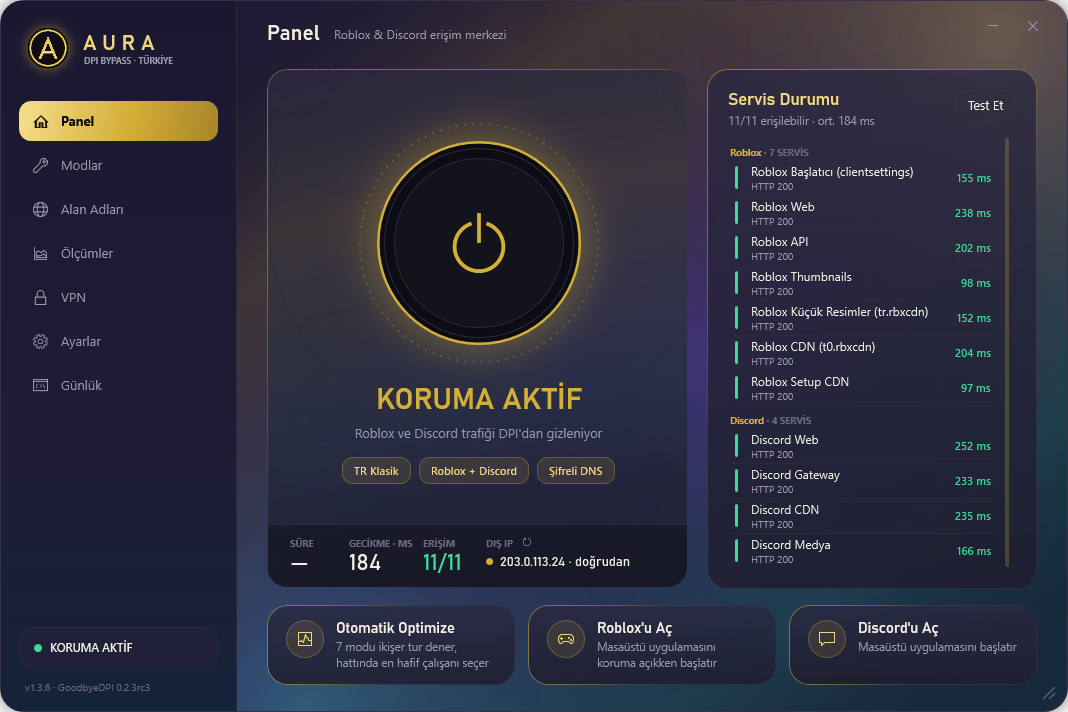
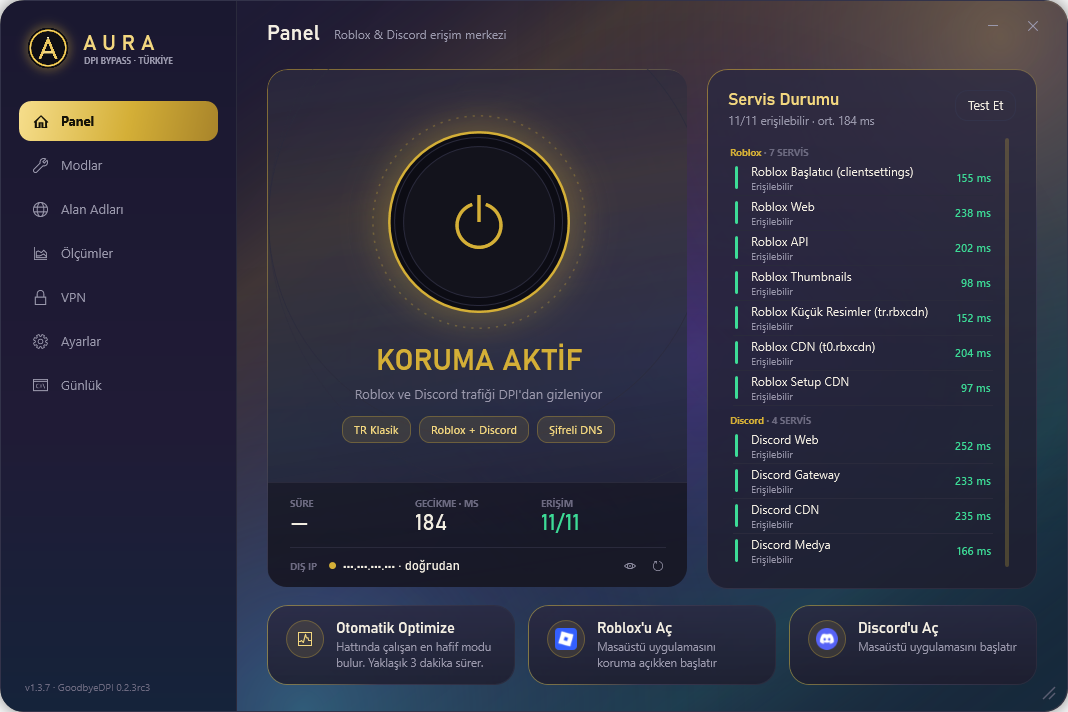
Site: 1.3.7 goruntuleri, betik ayri dosyada, icerik guvenlik politikasi

diff --git a/docs/index.html b/docs/index.html
@@ -3,6 +3,8 @@
 <head>
 <meta charset="utf-8">
 <meta name="viewport" content="width=device-width, initial-scale=1">
+<meta http-equiv="Content-Security-Policy" content="default-src 'none'; script-src 'self'; style-src 'unsafe-inline' https://fonts.googleapis.com; font-src https://fonts.gstatic.com; img-src 'self'; connect-src https://api.github.com; base-uri 'none'; form-action 'none'">
+<meta name="referrer" content="strict-origin-when-cross-origin">
 <title>Aura: Roblox ve Discord'a takılmadan gir</title>
 <meta name="description" content="Aura, Türkiye'deki erişim engelini aşan ücretsiz bir Windows uygulaması. Profil resimleri yüklenir, indirme hızı düşmez.">
 <link rel="canonical" href="https://nestyyyyyy.github.io/aura/">
@@ -252,6 +254,7 @@
           <div><dt>Windows neden uyarıyor?</dt><dd>Kurulum dosyasında dijital imza yok. İmza için her yıl ücret ödenen bir sertifika gerekir, Aura ise tek kişinin yaptığı ücretsiz bir uygulama. Windows SmartScreen imzasız ve az indirilen her dosyada “bilinmeyen yayıncı” uyarısı verir.</dd></div>
           <div><dt>Antivirüs neden uyarabilir?</dt><dd>Aura, ağ paketlerini değiştirebilmek için <span translate="no">WinDivert</span> sürücüsünü kullanır. Sürücü açık kaynaklıdır ve yazarı tarafından imzalanmıştır. Aynı sürücü kötü amaçla da kullanılabildiği için bazı antivirüsler onu içeren her programı “riskli araç” olarak işaretler.</dd></div>
           <div><dt>Bilgisayarda ne yapar?</dt><dd>Yönetici izni ister, çünkü sürücüyü yüklemek ve DNS ayarını değiştirmek bunu gerektirir. Kapanırken DNS ayarını eski haline getirir. Kaldırdığında dosyaları ve başlangıç görevleri silinir.</dd></div>
+          <div><dt>Kendini nasıl korur?</dt><dd>Aura her bağlanışta motor ve sürücü dosyalarının özetini beklenen değerle karşılaştırır. Dosyalardan biri değiştirilmişse motoru başlatmaz. Güncelleme indirdiğinde paketin özetini de doğrular, tutmazsa kurmaz.</dd></div>
           <div><dt>Kod açık mı?</dt><dd>Motor (<a href="https://github.com/ValdikSS/GoodbyeDPI" rel="noopener" translate="no">GoodbyeDPI</a>) ve sürücü (<a href="https://github.com/basil00/WinDivert" rel="noopener" translate="no">WinDivert</a>) açık kaynaklıdır. Aura'nın kendi kodu henüz yayınlanmadı.</dd></div>
           <div><dt>Dosyayı doğrula</dt><dd>Kurulum dosyasının SHA-256 özeti: <code id="ozet" translate="no">GitHub'daki sürüm sayfasında yazar</code>. İndirdiğin dosyada <code translate="no">certutil -hashfile AuraSetup.exe SHA256</code> komutu aynı değeri veriyorsa dosya GitHub'daki ile aynıdır. Dosyayı <a href="https://www.virustotal.com/gui/home/upload" rel="noopener">VirusTotal</a>'a yükleyip kendin de tarayabilirsin. Birkaç antivirüs WinDivert yüzünden uyarı verebilir.</dd></div>
         </dl>
@@ -314,9 +317,9 @@
       </div>
       <div>
         <ul class="log" id="surumler">
+          <li><b>1.3.7<time datetime="2026-11-14">14 Kasım 2026</time></b><span>Dış IP artık gizli gösteriliyor, servis listesi sadeleşti, motor dosyaları her açılışta doğrulanıyor</span></li>
           <li><b>1.3.6<time datetime="2026-11-14">14 Kasım 2026</time></b><span>Arayüz iyileştirmeleri: bağlanırken dönen ışık halkası, daha düzenli sayfalar</span></li>
           <li><b>1.3.5<time datetime="2026-11-14">14 Kasım 2026</time></b><span>Bildirimler çok azaltıldı; Roblox küçük resimleri artık takılmadan yükleniyor</span></li>
-          <li><b>1.3.4<time datetime="2026-11-14">14 Kasım 2026</time></b><span>Güncellemeden sonra korumanın bir iki dakika çalışmaması düzeltildi</span></li>
         </ul>
         <p class="more"><a href="https://github.com/Nestyyyyyy/aura/releases" rel="noopener">Tüm sürümler</a></p>
       </div>
@@ -354,7 +357,7 @@
         <details>
           <summary>Sorun yaşarsam ne yapmalıyım?</summary>
           <p>Uygulamada Günlük sayfasındaki “Tanı raporu kopyala” düğmesine bas. Sistem, bağlantı ve son olaylar tek metin olarak kopyalanır. Sonra <a href="https://github.com/Nestyyyyyy/aura/issues/new?template=bug_report.md" rel="noopener">GitHub'da yeni bir sorun kaydı aç</a>, ne olduğunu yaz ve raporu altına yapıştır.</p>
-          <p>Kayıt herkese açık olur. Yapıştırmadan önce rapordaki “Dış IP” satırını sil. Kayıt açmak için ücretsiz bir GitHub hesabı gerekir.</p>
+          <p>Kayıt herkese açık olur. Aura 1.3.7 ve sonrası raporda IP adresini ve Windows kullanıcı adını kendisi gizler. Yine de göndermeden önce raporda IP adresinin kalmadığına bak. Kayıt açmak için ücretsiz bir GitHub hesabı gerekir.</p>
         </details>
       </div>
     </section>
@@ -372,68 +375,6 @@
   </footer>
 </div>
 
-<script>
-  (function () {
-    var sayi = new Intl.NumberFormat("tr-TR", { maximumFractionDigits: 1 });
-    var tarih = new Intl.DateTimeFormat("tr-TR", { day: "numeric", month: "long", year: "numeric" });
-    var nb = " ";
-
-    // Windows dışındaki cihazlarda indirme işe yaramaz: adresi bilgisayara göndermeyi öner
-    if (!/Windows/i.test(navigator.userAgent)) {
-      var kutu = document.getElementById("baska-cihaz");
-      kutu.hidden = false;
-      document.getElementById("kopyala").addEventListener("click", function () {
-        var durum = document.getElementById("kopyalandi");
-        var adres = "https://nestyyyyyy.github.io/aura/";
-        if (navigator.clipboard && navigator.clipboard.writeText) {
-          navigator.clipboard.writeText(adres).then(function () { durum.textContent = " Kopyalandı."; }, function () { durum.textContent = " " + adres; });
-        } else { durum.textContent = " " + adres; }
-      });
-    }
-
-    // Son 3 sürüm, dosya boyutları ve kurulum dosyasının özeti GitHub'dan okunur; ulaşılamazsa sayfadaki sabit yazılar kalır
-    fetch("https://api.github.com/repos/Nestyyyyyy/aura/releases?per_page=3")
-      .then(function (r) { return r.ok ? r.json() : null; })
-      .then(function (list) {
-        if (!Array.isArray(list)) return;
-        list = list.filter(function (x) { return !x.draft && !x.prerelease && x.tag_name; });
-        if (!list.length) return;
-        var son = list[0];
-        var mb = function (name) {
-          var a = (son.assets || []).find(function (x) { return x.name === name; });
-          return a ? sayi.format(a.size / 1048576) + nb + "MB" : null;
-        };
-        document.getElementById("surum").textContent = "Sürüm " + son.tag_name.replace(/^v/, "") + ". Windows" + nb + "10 ve 11.";
-        var kur = mb("AuraSetup.exe"), tam = mb("Aura-tam.zip");
-        if (kur) document.getElementById("boyut").textContent = kur + ".";
-        if (tam) document.getElementById("boyut-tam").textContent = "(" + tam + ")";
-
-        var ozet = (son.assets || []).find(function (x) { return x.name === "AuraSetup.exe"; });
-        if (ozet && /^sha256:/.test(ozet.digest || "")) document.getElementById("ozet").textContent = ozet.digest.slice(7);
-
-        var ul = document.createElement("ul");
-        ul.className = "log"; ul.id = "surumler";
-        list.forEach(function (rel) {
-          var not = (rel.body || "").trim().split(/\r?\n/)[0];
-          if (!not) return;
-          var li = document.createElement("li");
-          var b = document.createElement("b");
-          b.textContent = rel.tag_name.replace(/^v/, "");
-          var t = document.createElement("time");
-          var d = new Date(rel.published_at);
-          t.dateTime = rel.published_at;
-          t.textContent = tarih.format(d);
-          b.appendChild(t);
-          var s = document.createElement("span");
-          s.textContent = not;
-          li.appendChild(b); li.appendChild(s);
-          ul.appendChild(li);
-        });
-        var eski = document.getElementById("surumler");
-        if (ul.children.length) eski.parentNode.replaceChild(ul, eski);
-      })
-      .catch(function () {});
-  })();
-</script>
+<script src="site.js" defer></script>
 </body>
 </html>

diff --git a/docs/site.js b/docs/site.js
@@ -1,0 +1,63 @@
+// Aura sitesi: son sürümler, dosya boyutları ve kurulum dosyasının özeti GitHub'dan okunur.
+// GitHub'dan gelen her metin sayfaya textContent ile yazılır; innerHTML kullanılmaz (sürüm notuna gömülü HTML çalışmaz).
+(function () {
+  var sayi = new Intl.NumberFormat("tr-TR", { maximumFractionDigits: 1 });
+  var tarih = new Intl.DateTimeFormat("tr-TR", { day: "numeric", month: "long", year: "numeric" });
+  var nb = " ";
+
+  // Windows dışındaki cihazlarda indirme işe yaramaz: adresi bilgisayara göndermeyi öner
+  if (!/Windows/i.test(navigator.userAgent)) {
+    var kutu = document.getElementById("baska-cihaz");
+    kutu.hidden = false;
+    document.getElementById("kopyala").addEventListener("click", function () {
+      var durum = document.getElementById("kopyalandi");
+      var adres = "https://nestyyyyyy.github.io/aura/";
+      if (navigator.clipboard && navigator.clipboard.writeText) {
+        navigator.clipboard.writeText(adres).then(function () { durum.textContent = " Kopyalandı."; }, function () { durum.textContent = " " + adres; });
+      } else { durum.textContent = " " + adres; }
+    });
+  }
+
+  // Son 3 sürüm, dosya boyutları ve kurulum dosyasının özeti GitHub'dan okunur; ulaşılamazsa sayfadaki sabit yazılar kalır
+  fetch("https://api.github.com/repos/Nestyyyyyy/aura/releases?per_page=3")
+    .then(function (r) { return r.ok ? r.json() : null; })
+    .then(function (list) {
+      if (!Array.isArray(list)) return;
+      list = list.filter(function (x) { return !x.draft && !x.prerelease && x.tag_name; });
+      if (!list.length) return;
+      var son = list[0];
+      var mb = function (name) {
+        var a = (son.assets || []).find(function (x) { return x.name === name; });
+        return a ? sayi.format(a.size / 1048576) + nb + "MB" : null;
+      };
+      document.getElementById("surum").textContent = "Sürüm " + son.tag_name.replace(/^v/, "") + ". Windows" + nb + "10 ve 11.";
+      var kur = mb("AuraSetup.exe"), tam = mb("Aura-tam.zip");
+      if (kur) document.getElementById("boyut").textContent = kur + ".";
+      if (tam) document.getElementById("boyut-tam").textContent = "(" + tam + ")";
+
+      var ozet = (son.assets || []).find(function (x) { return x.name === "AuraSetup.exe"; });
+      if (ozet && /^sha256:/.test(ozet.digest || "")) document.getElementById("ozet").textContent = ozet.digest.slice(7);
+
+      var ul = document.createElement("ul");
+      ul.className = "log"; ul.id = "surumler";
+      list.forEach(function (rel) {
+        var not = (rel.body || "").trim().split(/\r?\n/)[0];
+        if (!not) return;
+        var li = document.createElement("li");
+        var b = document.createElement("b");
+        b.textContent = rel.tag_name.replace(/^v/, "");
+        var t = document.createElement("time");
+        var d = new Date(rel.published_at);
+        t.dateTime = rel.published_at;
+        t.textContent = tarih.format(d);
+        b.appendChild(t);
+        var s = document.createElement("span");
+        s.textContent = not;
+        li.appendChild(b); li.appendChild(s);
+        ul.appendChild(li);
+      });
+      var eski = document.getElementById("surumler");
+      if (ul.children.length) eski.parentNode.replaceChild(ul, eski);
+    })
+    .catch(function () {});
+})();

diff --git a/.github/ISSUE_TEMPLATE/bug_report.md b/.github/ISSUE_TEMPLATE/bug_report.md
@@ -24,7 +24,7 @@ labels: sorun
 **Tanı raporu**
 Uygulamada Günlük sayfasındaki "Tanı raporu kopyala" düğmesine bas ve aşağıdaki iki çizginin arasına yapıştır.
 
-Bu kayıt herkese açıktır. Göndermeden önce IP adresinizi sildiğinizden emin olun ("Dış IP" satırı).
+Bu kayıt herkese açıktır. Aura 1.3.7 ve sonrası raporda IP adresini kendisi gizler; yine de göndermeden önce IP adresinizi sildiğinizden emin olun ("Dış IP" satırı).
 
 ```
 (raporu buraya yapıştır)
